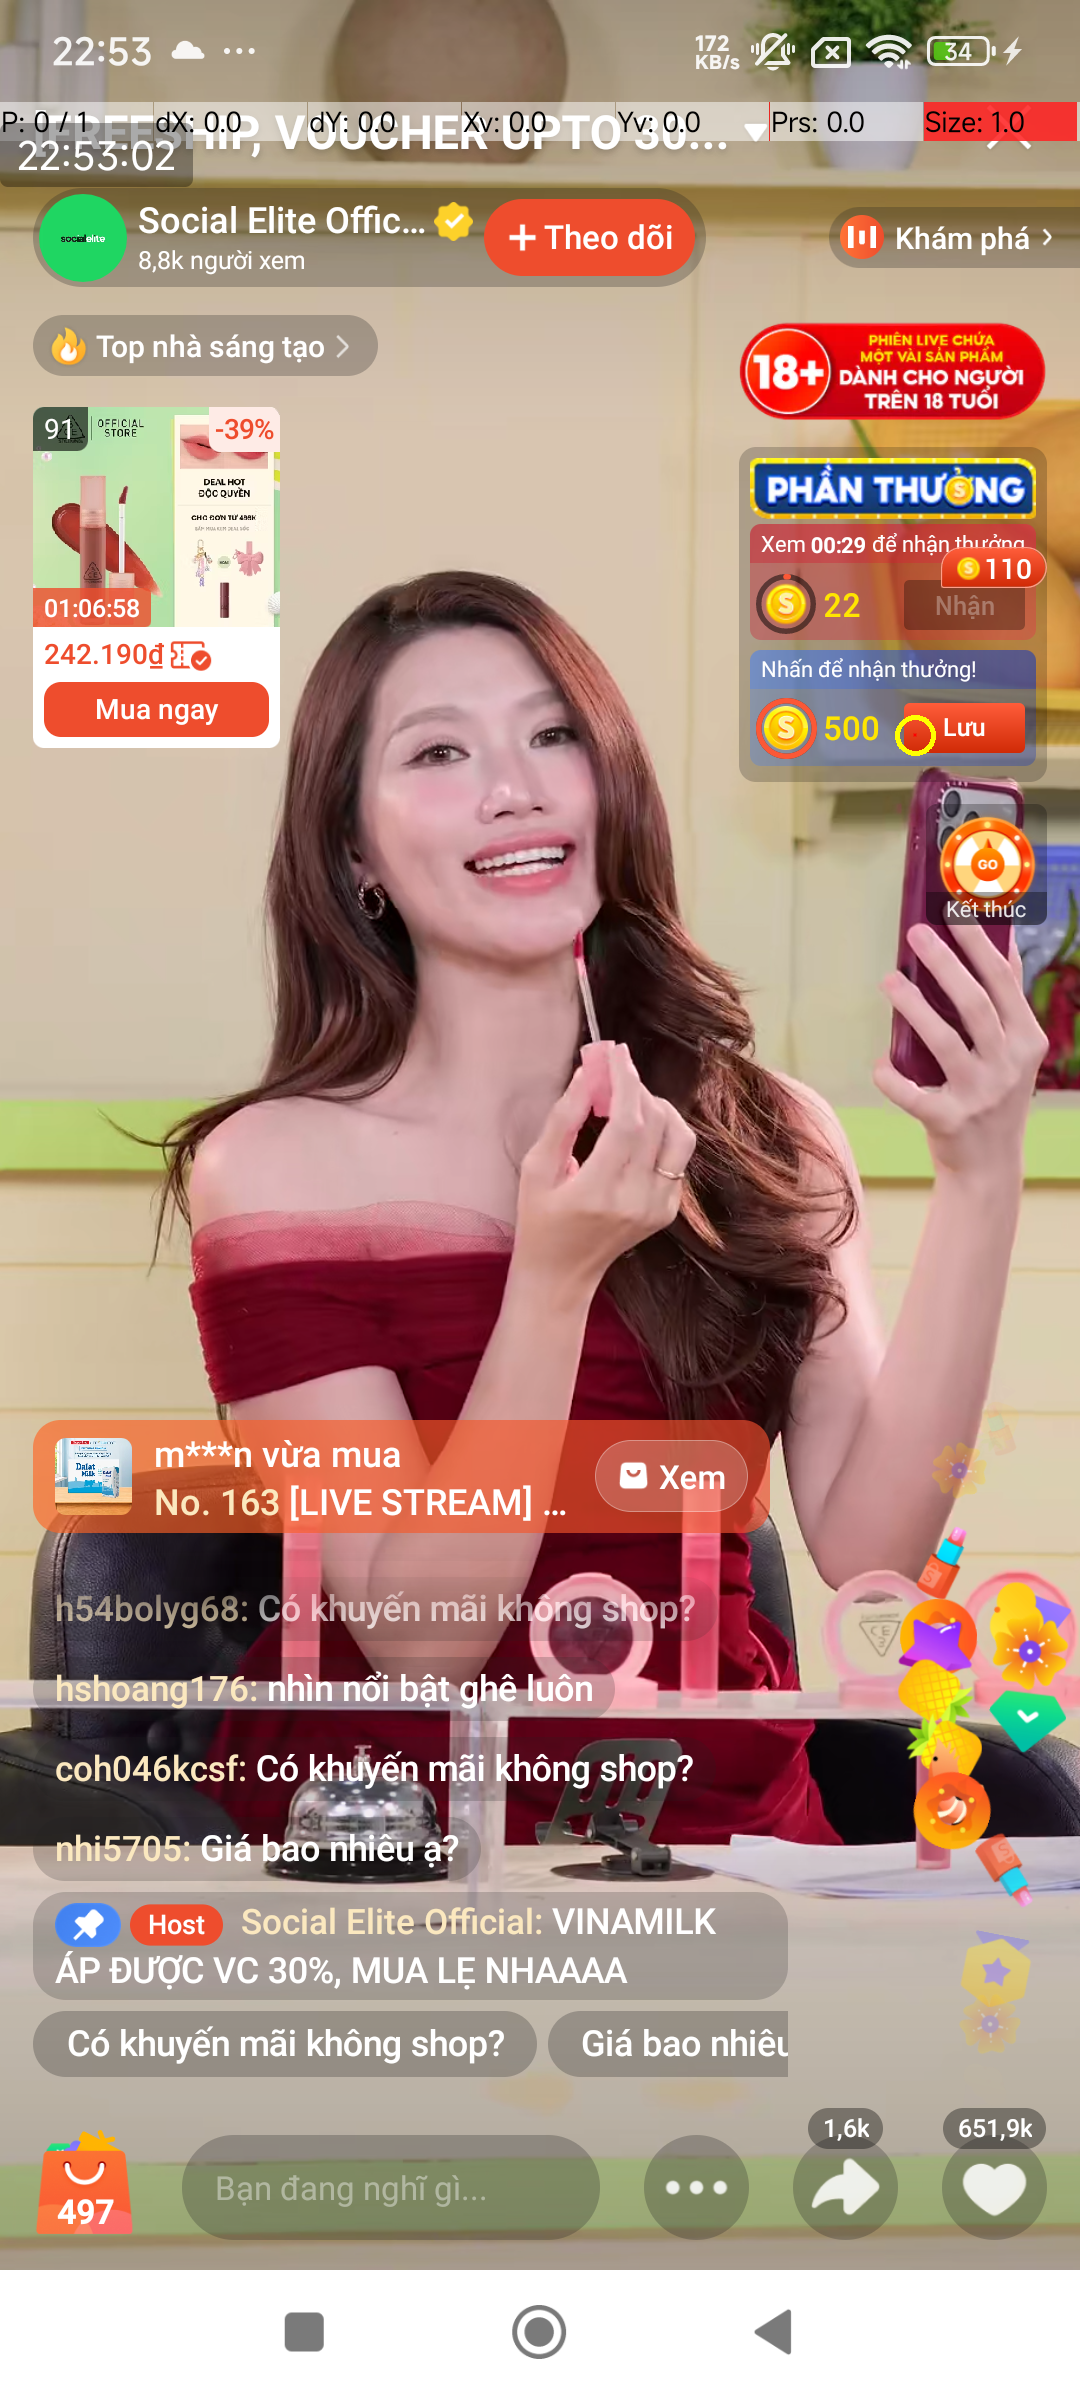
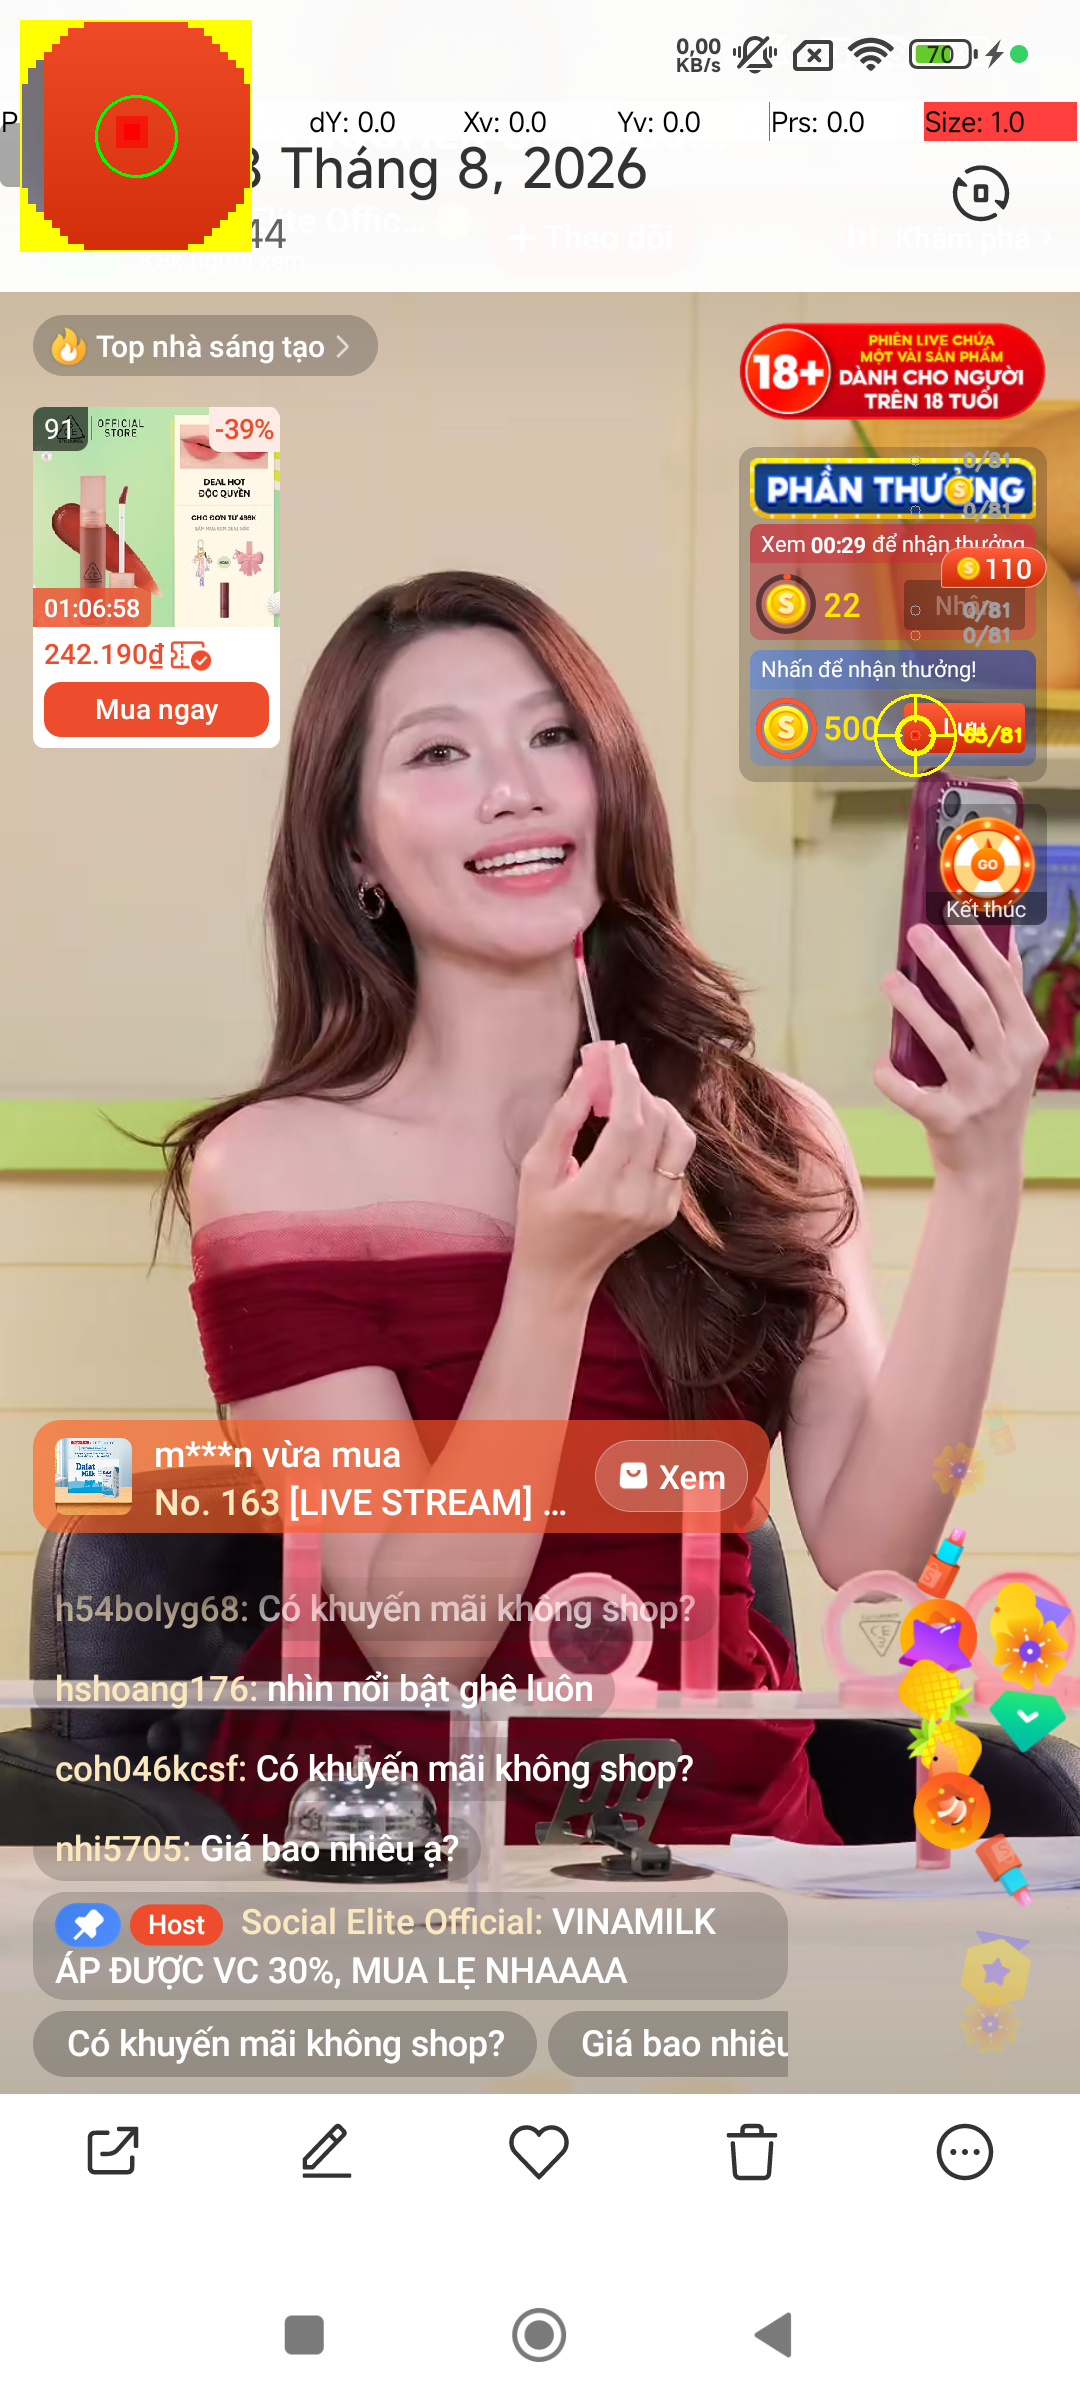
Update vibecode opus 5

diff --git a/main.py b/main.py
@@ -8,7 +8,8 @@ import numpy as np
 CAPTURE_DELAY_SEC = 5
 CLICK_COOLDOWN_SEC = 5
 SAVE_DEBUG_IMAGE = True
-DEBUG_IMAGE_PATH = "last_click.png"
+DEBUG_IMAGE_PATH = "last_click.png"      # ảnh có vẽ chú thích, để xem bằng mắt
+RAW_IMAGE_PATH = "last_capture_raw.png"  # ảnh gốc chưa vẽ gì, để dò lại ngưỡng màu
 
 CLICK_TARGETS = [
     (915, 460),
@@ -18,17 +19,32 @@ CLICK_TARGETS = [
     (915, 735),
     (915, 860),
 ]
-TARGET_REGION_RADIUS = 5
-MIN_ORANGE_PIXELS_IN_REGION = 50
-MAX_CENTROID_DISTANCE = 5  # centroid phải cách target tối đa 20px
 
-LOWER_ORANGE = np.array([5, 63, 153])
+# Vùng kiểm tra là HÌNH TRÒN bán kính 5px, tâm đúng tại điểm click.
+TARGET_REGION_RADIUS = 5
+# Tỉ lệ pixel cam tối thiểu trong hình tròn thì mới coi là nút Lưu.
+MIN_ORANGE_RATIO = 0.6
+
+# Nút Lưu là màu cam RỰC (H=5, S~229, V~225). Nền gradient cam nhạt phía sau
+# popup có cùng hue nhưng tối/nhạt hơn hẳn (S<=189, V<=182) -> dùng S/V để loại.
+LOWER_ORANGE = np.array([3, 195, 200])
 UPPER_ORANGE = np.array([14, 255, 255])
 MORPH_KERNEL = np.ones((3, 3), np.uint8)
+
+# Mặt nạ hình tròn (11x11 cho r=5), dùng lại cho mọi target.
+_yy, _xx = np.mgrid[
+    -TARGET_REGION_RADIUS : TARGET_REGION_RADIUS + 1,
+    -TARGET_REGION_RADIUS : TARGET_REGION_RADIUS + 1,
+]
+CIRCLE_MASK = (_xx**2 + _yy**2) <= TARGET_REGION_RADIUS**2
+CIRCLE_AREA = int(CIRCLE_MASK.sum())
+MIN_ORANGE_PIXELS = int(round(CIRCLE_AREA * MIN_ORANGE_RATIO))
+
 
 # thực hiện click
 def adb_tap(x, y):
     subprocess.run(["adb", "shell", "input", "tap", str(x), str(y)], check=False)
+
 
 # chụp màn hình
 def capture_screen():
@@ -40,53 +56,84 @@ def capture_screen():
     if result.returncode != 0 or not result.stdout:
         return None
 
-    frame = cv2.imdecode(np.frombuffer(result.stdout, np.uint8), cv2.IMREAD_COLOR)
-    if frame is None:
-        return None
+    return cv2.imdecode(np.frombuffer(result.stdout, np.uint8), cv2.IMREAD_COLOR)
 
-    return frame
 
-# tìm nút Lưu bằng cách phân tích màu sắc trong khu vực mục tiêu
-def find_save_button(frame, target_x, target_y):
+# tạo mask cam cho cả frame (chỉ tính 1 lần mỗi frame)
+def build_orange_mask(frame):
     hsv = cv2.cvtColor(frame, cv2.COLOR_BGR2HSV)
     mask = cv2.inRange(hsv, LOWER_ORANGE, UPPER_ORANGE)
     mask = cv2.morphologyEx(mask, cv2.MORPH_OPEN, MORPH_KERNEL, iterations=1)
-    mask = cv2.dilate(mask, MORPH_KERNEL, iterations=1)
+    return hsv, mask
 
+
+# đếm pixel cam + lấy HSV đại diện trong hình tròn r=TARGET_REGION_RADIUS quanh target
+def probe_target(hsv, mask, target_x, target_y):
     height, width = mask.shape[:2]
-    x1 = max(0, target_x - TARGET_REGION_RADIUS)
-    x2 = min(width, target_x + TARGET_REGION_RADIUS)
-    y1 = max(0, target_y - TARGET_REGION_RADIUS)
-    y2 = min(height, target_y + TARGET_REGION_RADIUS)
+    r = TARGET_REGION_RADIUS
 
-    region_mask = mask[y1:y2, x1:x2]
-    orange_pixels = int(np.count_nonzero(region_mask))
+    x1, x2 = max(0, target_x - r), min(width, target_x + r + 1)
+    y1, y2 = max(0, target_y - r), min(height, target_y + r + 1)
+    if x1 >= x2 or y1 >= y2:
+        return 0, [0, 0, 0]
 
-    cy_idx = min(target_y, height - 1)
-    cx_idx = min(target_x, width - 1)
-    actual_hsv = hsv[cy_idx, cx_idx].tolist()
+    # cắt CIRCLE_MASK theo đúng phần đã bị clip ở biên màn hình
+    circle = CIRCLE_MASK[
+        y1 - (target_y - r) : y2 - (target_y - r),
+        x1 - (target_x - r) : x2 - (target_x - r),
+    ]
+    orange_pixels = int(np.count_nonzero((mask[y1:y2, x1:x2] > 0) & circle))
 
-    if orange_pixels < MIN_ORANGE_PIXELS_IN_REGION:
-        return None, orange_pixels, actual_hsv
+    # HSV trung vị của cả vùng tròn: đại diện hơn 1 pixel tâm (dễ dính
+    # tap-indicator của thiết bị hoặc pixel nhiễu)
+    median_hsv = np.median(hsv[y1:y2, x1:x2][circle], axis=0).astype(int).tolist()
+    return orange_pixels, median_hsv
 
-    # tính centroid của các pixel cam trong vùng
-    ys, xs = np.where(region_mask > 0)
-    centroid_x = int(xs.mean()) + x1
-    centroid_y = int(ys.mean()) + y1
-    dist = np.hypot(centroid_x - target_x, centroid_y - target_y)
 
-    if dist <= MAX_CENTROID_DISTANCE:
-        return (target_x, target_y), orange_pixels, actual_hsv
-    else:
-        print(f"  Reject ({target_x},{target_y}): centroid cam tại ({centroid_x},{centroid_y}), cách target {dist:.1f}px > {MAX_CENTROID_DISTANCE}px")
-        return None, orange_pixels, actual_hsv
+# vẽ ảnh debug: vòng định vị to cho dễ tìm + vòng r=5 đúng vùng check thật
+def draw_debug(frame, results, clicked):
+    overlay = frame.copy()
+    r = TARGET_REGION_RADIUS
+
+    for (tx, ty, pixels) in results:
+        hit = (tx, ty) == clicked
+        color = (0, 255, 255) if hit else (160, 160, 160)
+
+        if hit:
+            # vòng định vị lớn + 4 gạch chỉ vào tâm (chừa trống để không che vùng check)
+            cv2.circle(overlay, (tx, ty), 40, color, 2)
+            for dx, dy in ((-1, 0), (1, 0), (0, -1), (0, 1)):
+                cv2.line(overlay, (tx + dx * 38, ty + dy * 38),
+                         (tx + dx * 14, ty + dy * 14), color, 2)
+
+        # vùng check thật: hình tròn r=5, vẽ to gấp 4 lần ở khung phóng to bên cạnh
+        cv2.circle(overlay, (tx, ty), r, (0, 255, 0) if hit else color, 1)
+        cv2.putText(overlay, f"{pixels}/{CIRCLE_AREA}", (tx + 48, ty + 6),
+                    cv2.FONT_HERSHEY_SIMPLEX, 0.6, color, 2, cv2.LINE_AA)
+
+    # khung phóng to 8x quanh điểm được click, dán vào góc trên trái
+    if clicked is not None:
+        cx, cy = clicked
+        pad = 14
+        y1, y2 = max(0, cy - pad), min(frame.shape[0], cy + pad + 1)
+        x1, x2 = max(0, cx - pad), min(frame.shape[1], cx + pad + 1)
+        zoom = cv2.resize(frame[y1:y2, x1:x2], None, fx=8, fy=8,
+                          interpolation=cv2.INTER_NEAREST)
+        cv2.circle(zoom, ((cx - x1) * 8 + 4, (cy - y1) * 8 + 4), r * 8, (0, 255, 0), 2)
+        cv2.rectangle(zoom, (0, 0), (zoom.shape[1] - 1, zoom.shape[0] - 1), (0, 255, 255), 2)
+        overlay[20:20 + zoom.shape[0], 20:20 + zoom.shape[1]] = zoom
+
+    return overlay
 
 
 def main():
     last_click_at = 0.0
-    frame_count = 0
 
-    print(f"[START] Auto-click đang chạy | Targets: {CLICK_TARGETS} | Delay: {CAPTURE_DELAY_SEC}s")
+    print(
+        f"[START] Auto-click đang chạy | Targets: {CLICK_TARGETS} | "
+        f"Vùng check: hình tròn r={TARGET_REGION_RADIUS}px ({CIRCLE_AREA}px) | "
+        f"Ngưỡng: >={MIN_ORANGE_PIXELS}px | Delay: {CAPTURE_DELAY_SEC}s"
+    )
 
     while True:
         frame = capture_screen()
@@ -95,39 +142,39 @@ def main():
             time.sleep(CAPTURE_DELAY_SEC)
             continue
 
-        frame_count += 1
-        # print(f"[Frame {frame_count}] Đang quét {len(CLICK_TARGETS)} vị trí...")
-        print(f".")
+        print(".", flush=True)
 
-        found_center = None
-        found_pixels = 0
-        found_hsv = None
+        hsv, mask = build_orange_mask(frame)
+
+        found = None
+        results = []
         for tx, ty in CLICK_TARGETS:
-            center, orange_pixels, actual_hsv = find_save_button(frame, tx, ty)
+            orange_pixels, median_hsv = probe_target(hsv, mask, tx, ty)
+            results.append((tx, ty, orange_pixels))
             if orange_pixels > 0:
-                print(f"  ({tx},{ty})| Orange pixels: {orange_pixels}| HSV: {actual_hsv}")
-            if center is not None:
-                found_center = center
-                found_pixels = orange_pixels
-                found_hsv = actual_hsv
+                print(f"  ({tx},{ty})| Orange pixels: {orange_pixels}/{CIRCLE_AREA}| HSV~ {median_hsv}")
+            if orange_pixels >= MIN_ORANGE_PIXELS:
+                found = (tx, ty, orange_pixels, median_hsv)
                 break
 
-        if found_center is not None:
-            cx, cy = found_center
+        if found is not None:
+            cx, cy, found_pixels, found_hsv = found
             now = time.time()
             if now - last_click_at >= CLICK_COOLDOWN_SEC:
-                print(f"Click nút Lưu tại: ({cx}, {cy}) | Orange pixels: {found_pixels} | HSV: {found_hsv}")
-                adb_tap(cx, cy)
-                last_click_at = now
-                delay = CLICK_COOLDOWN_SEC
-                print(f"Đã click, chờ {delay} giây trước khi tiếp tục...")
-                time.sleep(delay)
+                print(
+                    f"Click nút Lưu tại: ({cx}, {cy}) | "
+                    f"Orange pixels: {found_pixels}/{CIRCLE_AREA} | HSV~ {found_hsv}"
+                )
 
                 if SAVE_DEBUG_IMAGE:
-                    overlay = frame.copy()
-                    cv2.circle(overlay, (cx, cy), 18, (0, 255, 255), 3)
-                    cv2.imwrite(DEBUG_IMAGE_PATH, overlay)
-                    print(f"Đã lưu ảnh kiểm tra tại: {DEBUG_IMAGE_PATH}")
+                    # lưu ảnh gốc TRƯỚC khi vẽ: chú thích vẽ đè lên vùng check
+                    # sẽ làm sai lệch nếu sau này dùng ảnh đó để dò ngưỡng màu
+                    cv2.imwrite(RAW_IMAGE_PATH, frame)
+                    cv2.imwrite(DEBUG_IMAGE_PATH, draw_debug(frame, results, (cx, cy)))
+                    print(f"Đã lưu ảnh kiểm tra: {DEBUG_IMAGE_PATH} (gốc: {RAW_IMAGE_PATH})")
+
+                adb_tap(cx, cy)
+                last_click_at = now
 
         time.sleep(CAPTURE_DELAY_SEC)
 
